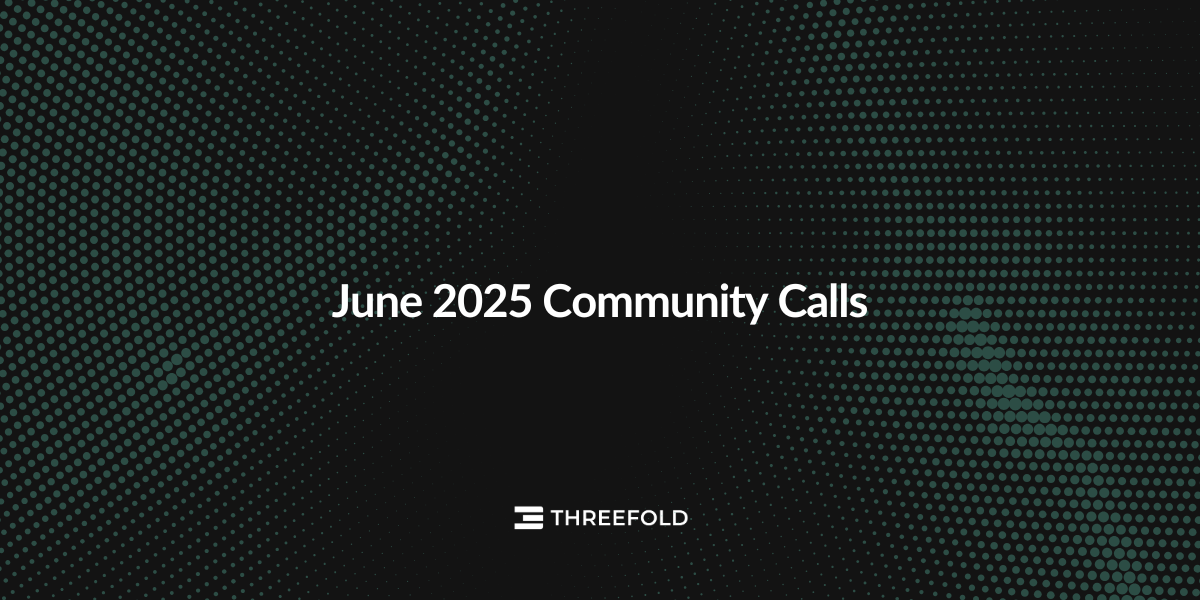
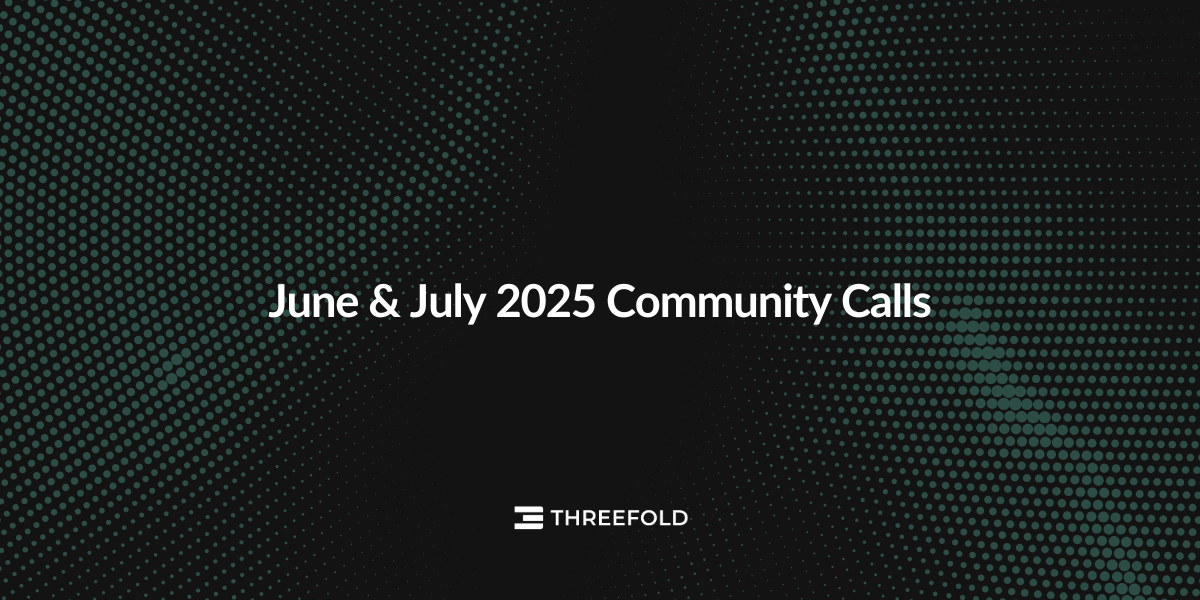
Fix to June Calls newsroom

Changed region(s): [[0.2158, 0.45, 0.7708, 0.54]]

diff --git a/content/newsroom/june_2025_calls/index.md b/content/newsroom/june_2025_calls/index.md
@@ -1,7 +1,7 @@
 ---
 id: june_2025_calls
 title: "Announcing: June & July 2025 Community Calls"
-image_caption: June 2025 Calls
+image_caption: June & July 2025 Community Calls
 description: We are lining up a series of demos and community calls this June and July. Join in!
 date: 2025-06-13
 taxonomies:
@@ -35,7 +35,7 @@ In this demo, Scott will show the latest developments in the Node Status Bot, wh
 
 <br/>
 
-*Note: This call was postponed from Thursday June 19.*
+*Note: This call was postponed from Thursday June 19.* 
 
 <br/>
 
